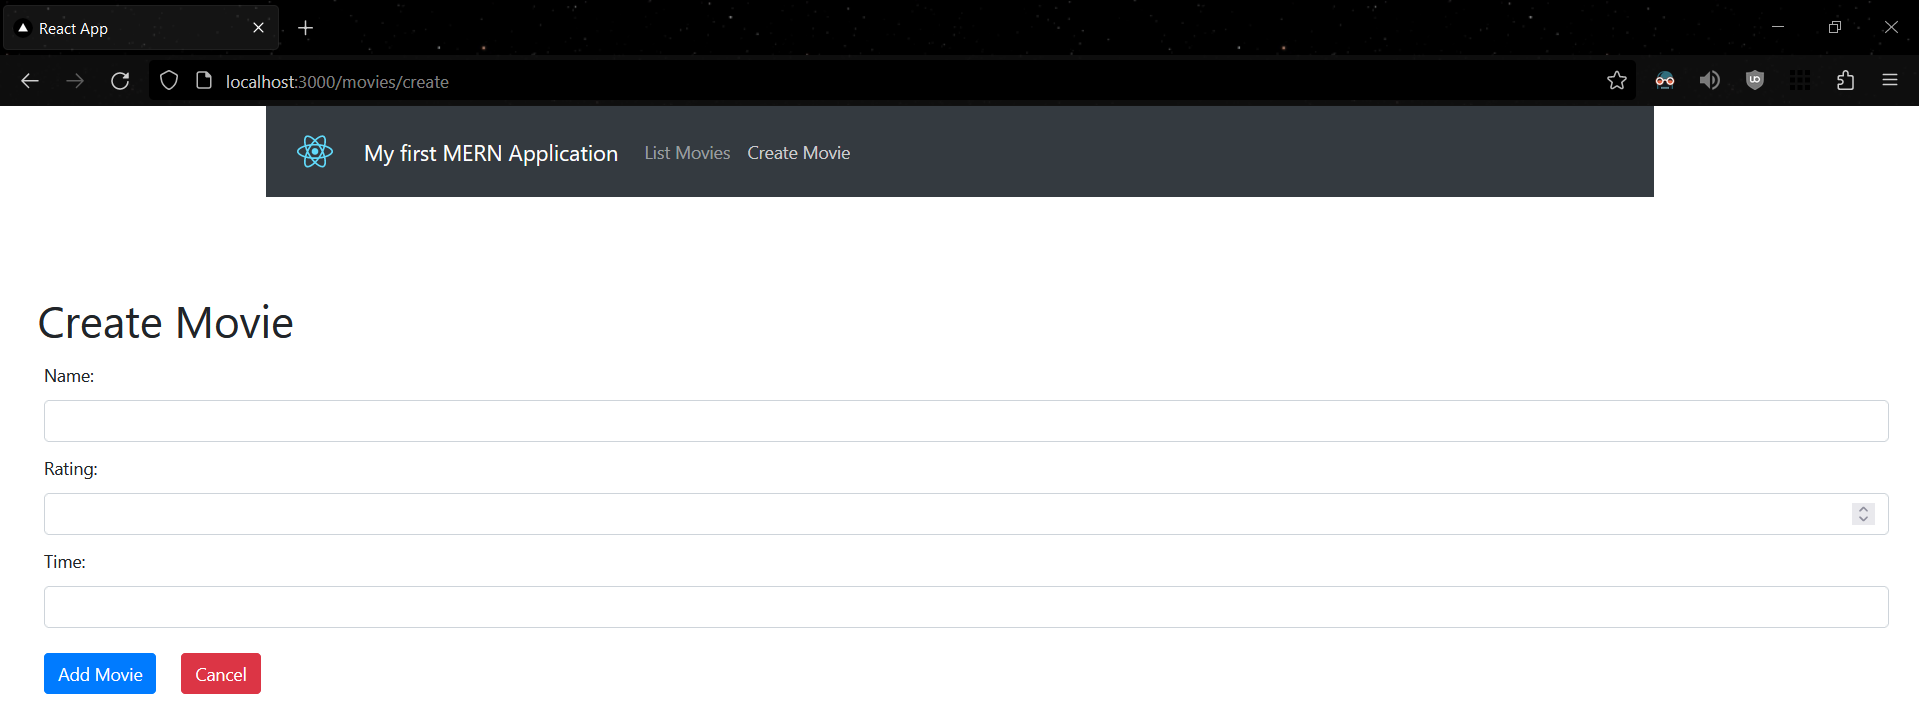
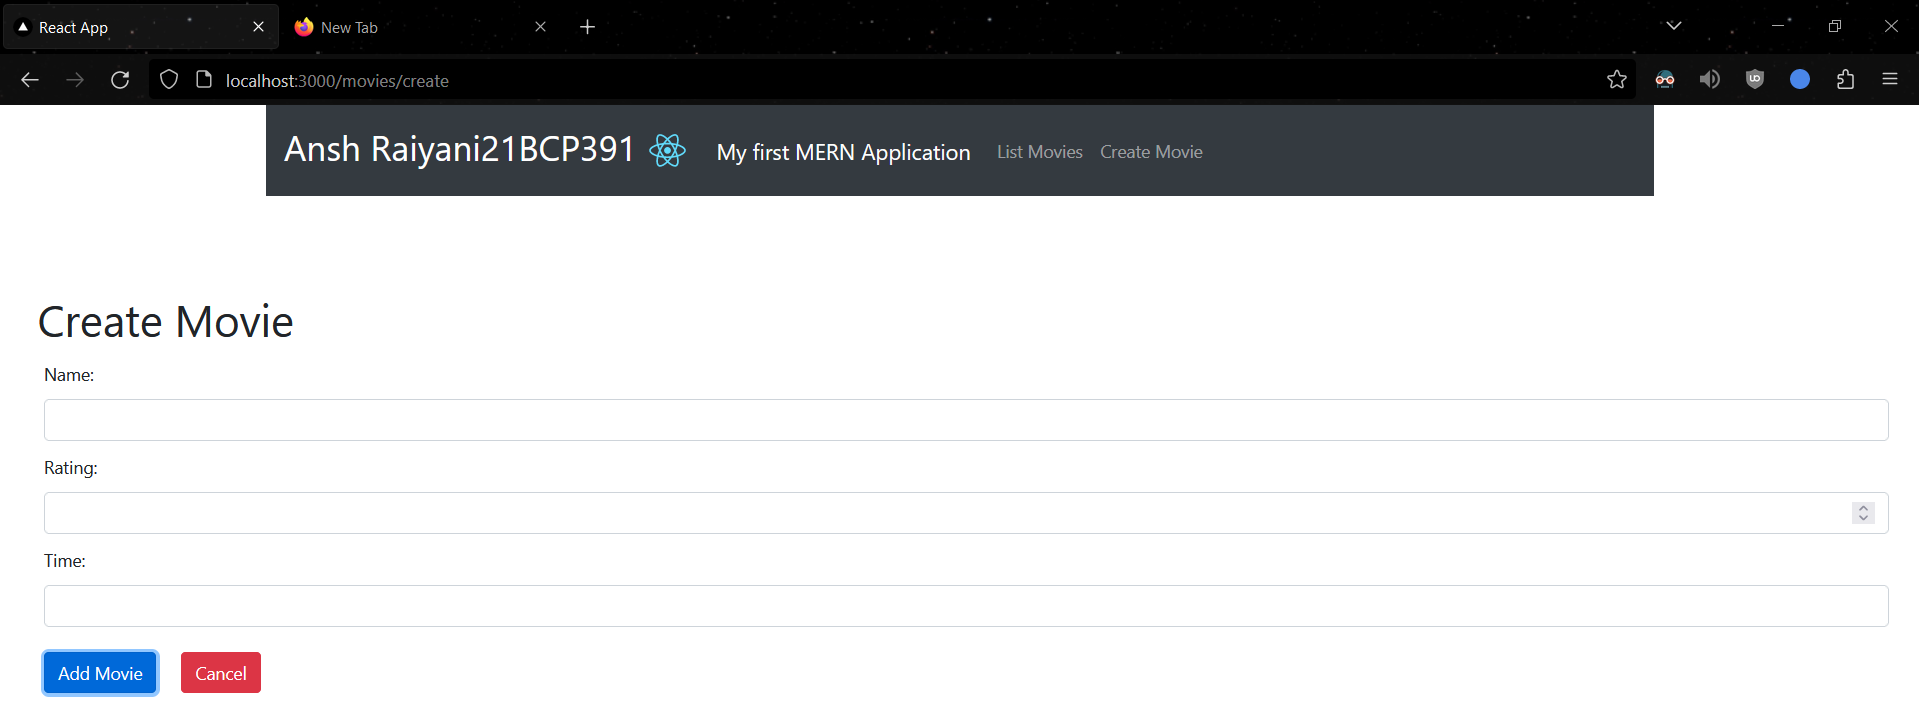
updated

diff --git a/README.md b/README.md
@@ -1,5 +1,7 @@
 # Cloud Computing
 
+### Made by: Ansh Raiyani (21BCP391)
+
 ## Problem Statement:
 Create any three-tier application using Docker, using a multi-container setup. Build at least one docker image using Dockerfile. You are free to use your old projects, build new projects or take any project from GitHub. However, if you are using a project from Github, properly cite the original author of the code in your blog. 
 
